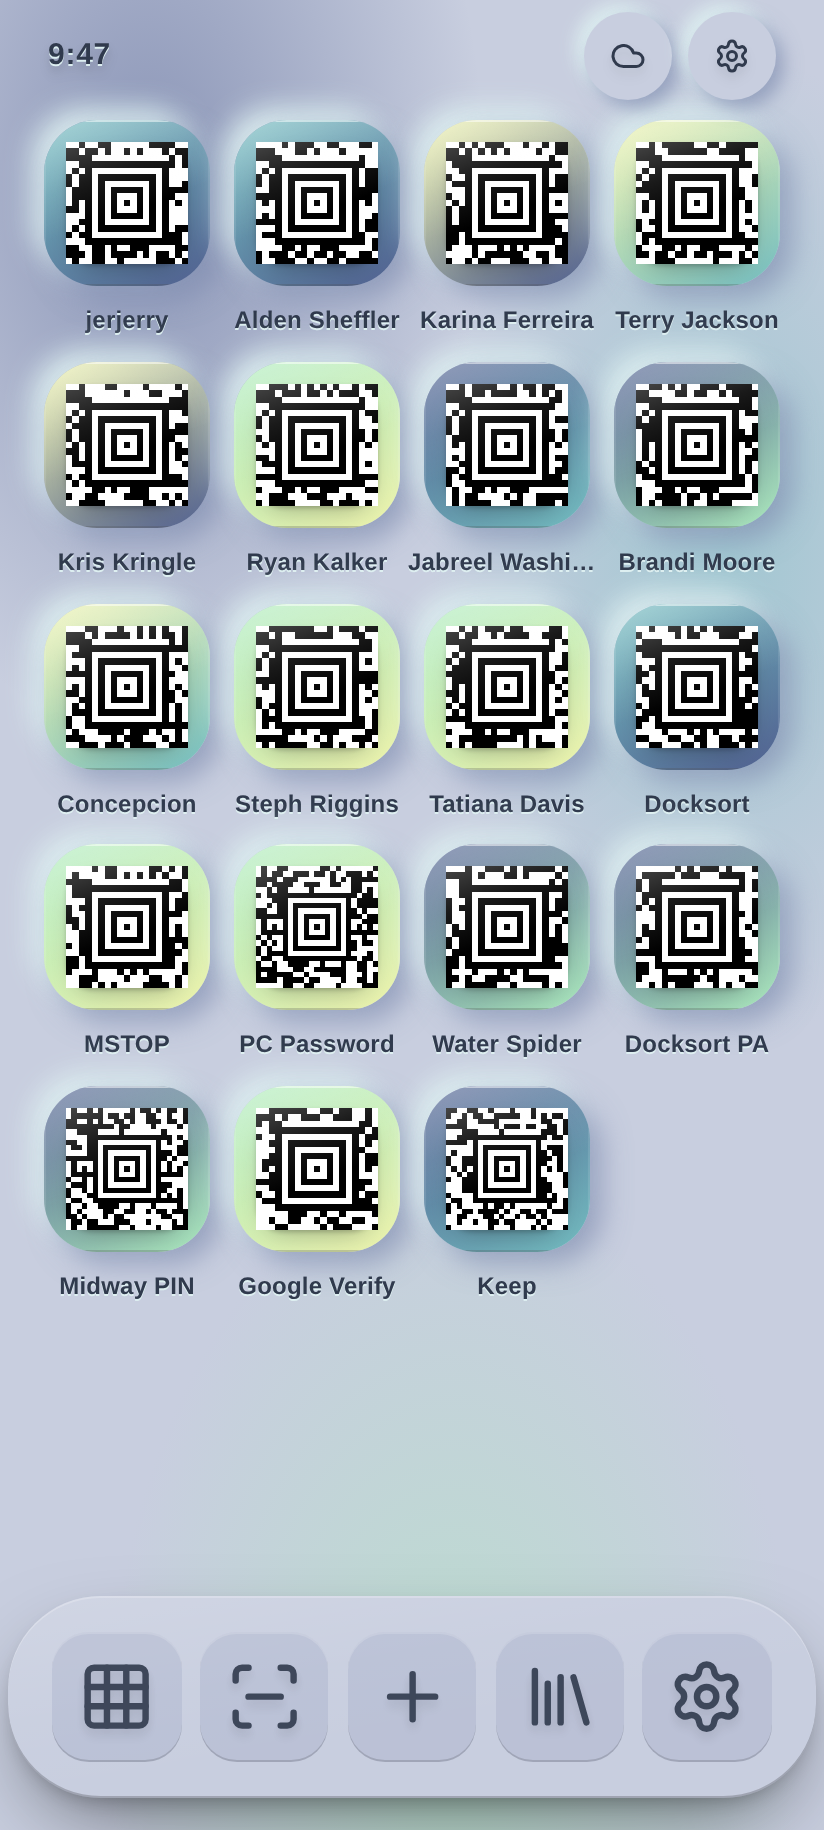
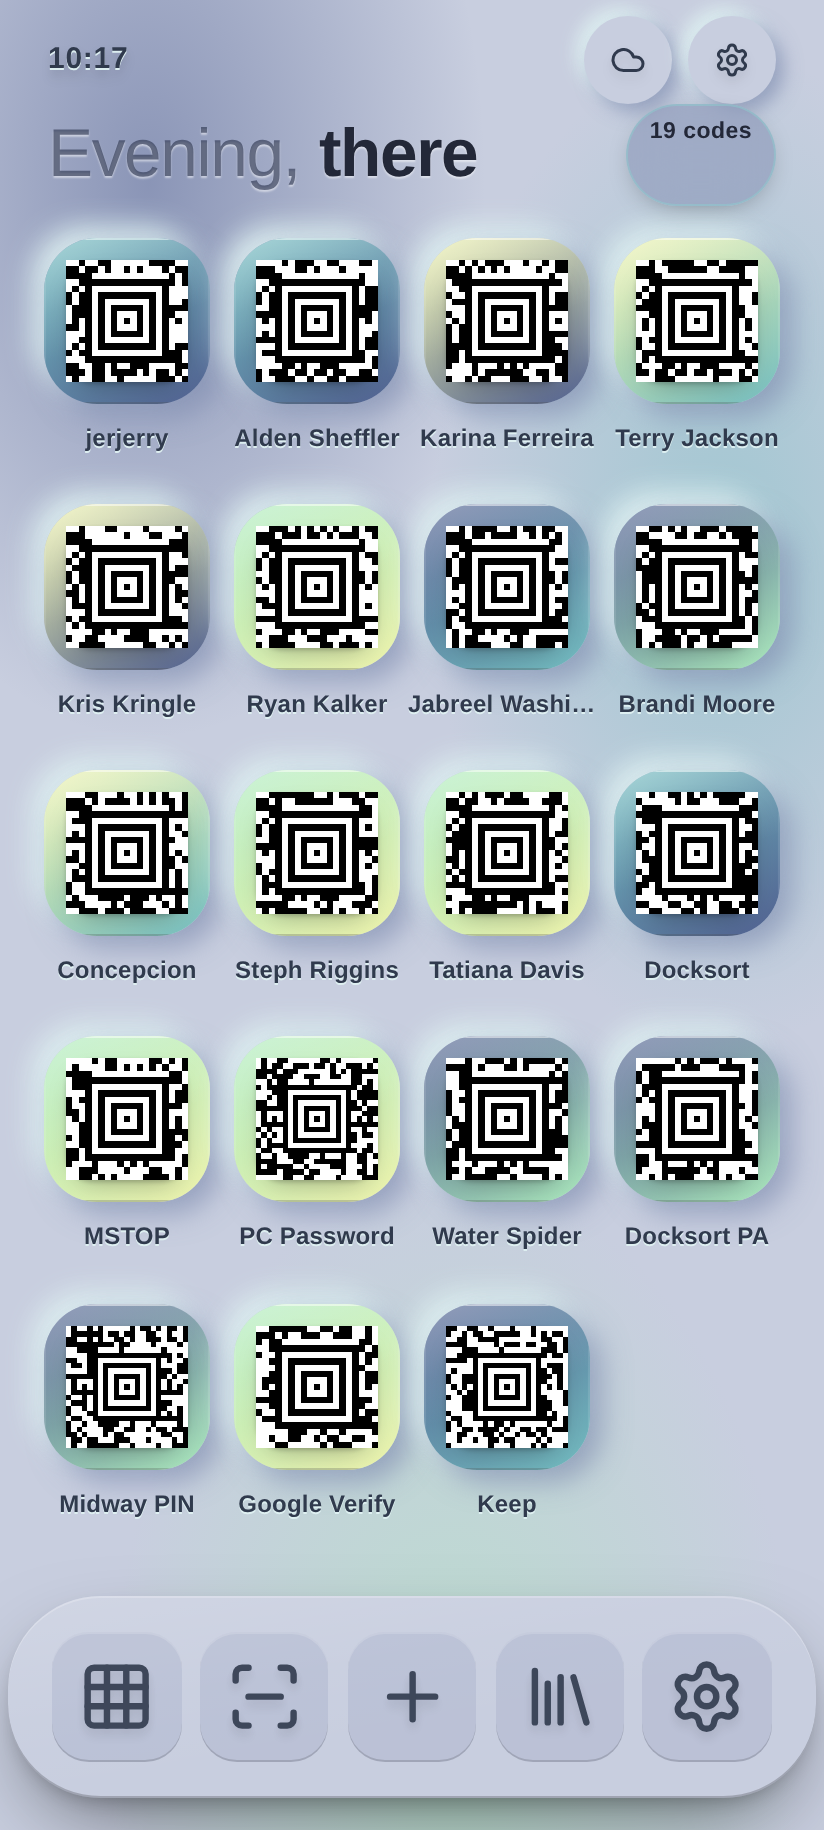
A header with a name in it, and stop a short page stacking two codes on one square

diff --git a/index.html b/index.html
@@ -85,6 +85,13 @@
                not happen; it could, because it only covered half of the wallpaper. */
             --wall-tint-base: #05070f;
 
+            /* Ink. There was no such token: everything on the wallpaper was hardcoded
+               `text-white` with a drop shadow, and the two light skins each had to undo that
+               with their own override list. One pair of tokens instead, so a new piece of
+               chrome is readable on every skin the moment it is written. */
+            --ink-strong: #ffffff;
+            --ink-soft: rgba(255,255,255,0.62);
+
             /* ---- Structural skin tokens -------------------------------------------------
                A skin used to be a colour scheme and nothing else. Every one of the six drew the
                same 22.5% squircle, the same 380px dock pill and the same 11.5px label, so
@@ -485,6 +492,35 @@
            
            --row-min is the floor: an icon plus its label. A track can grow past it, never
            under it, so a short screen overflows visibly instead of silently overlapping. */
+        /* The greeting. One line, two weights — the reference designs all do this and it is
+           what makes a screen read as designed rather than assembled. Sized in vw with a
+           clamp so it is the same proportion of the screen on a 360 as on a 430, which a
+           fixed px size is not. */
+        .os-hello {
+            font-size: clamp(26px, 8.2vw, 36px);
+            letter-spacing: -0.02em;
+            display: flex; align-items: baseline; gap: 0.28em;
+            text-shadow: 0 1px 2px rgba(0,0,0,0.28), 0 2px 12px rgba(0,0,0,0.18);
+        }
+        body[data-skin="glass"] .os-hello,
+        body[data-skin="soft"] .os-hello { text-shadow: 0 1px 1px rgba(255,255,255,0.5); }
+        .os-hello-soft { font-weight: 300; color: var(--ink-soft); }
+        .os-hello-name { font-weight: 700; color: var(--ink-strong); }
+
+        /* The count. Small, palette-tinted, and it disappears when it would read "0 codes" —
+           an empty home screen does not need a label telling it so. */
+        .os-chip {
+            font-size: 11.5px; font-weight: 700; letter-spacing: 0.02em;
+            padding: 5px 11px; border-radius: 999px;
+            color: var(--ink-strong);
+            background: color-mix(in srgb, var(--pal-1) 34%, rgba(255,255,255,0.12));
+            border: 0.5px solid color-mix(in srgb, var(--pal-2) 44%, rgba(255,255,255,0.18));
+            backdrop-filter: blur(14px); -webkit-backdrop-filter: blur(14px);
+            box-shadow: 0 4px 14px -6px rgba(0,0,0,0.4);
+            transition: opacity 0.35s ease, background 0.35s ease;
+        }
+        .os-chip:empty { opacity: 0; }
+
         .os-grid {
             --row-min: calc(var(--app-size) + 24px);
             display: grid;
@@ -771,12 +807,16 @@
            could tint, which reads as glare rather than as a light interface. Mixed with the
            palette it becomes a tinted daylight instead of a blank one. */
         body[data-skin="glass"] {
+            --ink-strong: color-mix(in srgb, var(--pal-1) 22%, #16181f);
+            --ink-soft: color-mix(in srgb, var(--pal-1) 30%, rgba(30,33,42,0.55));
             --wall-ink-a: color-mix(in srgb, var(--pal-1) 52%, #ffffff);
             --wall-ink-b: color-mix(in srgb, var(--pal-3) 56%, #f4f6fd);
             --wall-bloom: 84%;
             --wall-tint-base: #ffffff;      /* light skins tint towards light, symmetrically */
         }
         body[data-skin="soft"] {
+            --ink-strong: color-mix(in srgb, var(--pal-1) 22%, #16181f);
+            --ink-soft: color-mix(in srgb, var(--pal-1) 30%, rgba(30,33,42,0.55));
             --wall-ink-a: color-mix(in srgb, var(--pal-1) 32%, #f7f9fd);
             --wall-ink-b: color-mix(in srgb, var(--pal-3) 38%, #eef2f8);
             --wall-bloom: 62%;
@@ -1475,8 +1515,13 @@
 
     <div id="workspace-container" class="w-full h-full flex flex-col relative z-10">
         
-        <header id="os-header" class="w-full h-12 flex justify-between items-center px-6 z-40 shrink-0 pt-2 pointer-events-none">
-            <div id="os-clock" class="text-white font-bold text-[15px] tracking-wide drop-shadow-md w-14">
+        <!-- The header used to be a clock and two grey circles, and it was the clearest tell
+             that this was a prototype rather than a product: every launcher and every app it
+             is measured against opens with a line of type big enough to own the screen. The
+             greeting is that line. It is also the only place the app ever says your name. -->
+        <header id="os-header" class="w-full flex flex-col px-6 z-40 shrink-0 pt-2 pb-1 pointer-events-none">
+          <div class="w-full h-10 flex justify-between items-center">
+            <div id="os-clock" class="text-[color:var(--ink-strong)] font-bold text-[15px] tracking-wide drop-shadow-md w-14">
                 --:--
             </div>
             
@@ -1493,6 +1538,16 @@
                      there did nothing at all. Reported as "I cant get out of edit mode". -->
                 <button id="btn-done-editing" class="hidden tap44 items-center justify-center px-4 rounded-full bg-white text-black text-[14px] font-bold shadow-lg active:scale-95 transition-transform">Done</button>
             </div>
+          </div>
+          <!-- Two weights on one line, the way the reference designs do it: the greeting
+               recedes and the name carries. Set as textContent from JS — a display name can
+               come from a Google account, which is not this app's string to trust. -->
+          <div id="os-greeting" class="w-full flex items-end justify-between gap-3 mt-2.5 pointer-events-none">
+            <h1 class="os-hello leading-[1.05] truncate">
+                <span class="os-hello-soft">Hey,</span><span class="os-hello-name" id="os-hello-name">there</span>
+            </h1>
+            <span id="os-count-chip" class="os-chip shrink-0 mb-1.5"></span>
+          </div>
         </header>
 
         <main class="flex-1 w-full relative overflow-hidden flex flex-col -mt-2">
@@ -2347,16 +2402,28 @@
             const st = window.OS_STATE;
             const per = Math.max(1, (st.gridCols || 4) * (st.gridRows || 6));
             const grid = st.apps.filter(a => (a.type === 'grid' && !a.folderId) || a.type === 'folder');
-            const pages = new Map();
-            grid.forEach(a => {
-                const p = Math.max(0, a.page || 0);
-                if (!pages.has(p)) pages.set(p, []);
-                pages.get(p).push(a);
-            });
-            pages.forEach((items, p) => {
-                items.sort((x, y) => (x.order || 0) - (y.order || 0))
-                     .forEach((a, i) => { a.page = p; a.order = i % per; });
-            });
+
+            // One ordered sequence, then dealt back out page by page.
+            //
+            // This used to normalise each page independently with `order = i % per`, and the
+            // modulo was a silent collision: a page holding more codes than it has squares
+            // wrapped the extras back onto orders 0, 1, 2 — on top of the codes already there.
+            // Only one of each pair was ever drawn.
+            //
+            // It took a shorter page to expose it. The header grew by a row of type, the grid
+            // lost a row, and pages that used to hold 24 now hold 20 — so a merge from the
+            // cloud that had been fitting exactly began overflowing, and the test that checks
+            // every code gets its own slot caught two sharing one. The bug was always there;
+            // it just needed a page small enough to overflow.
+            //
+            // Dealing the whole sequence out means an overflow spills onto the NEXT page,
+            // which is what "forced auto-arrange to the next open spot" has to mean when the
+            // next open spot is not on this page.
+            grid.sort((x, y) => (x.page || 0) - (y.page || 0) || (x.order || 0) - (y.order || 0))
+                .forEach((a, i) => {
+                    a.page = Math.floor(i / per);
+                    a.order = i % per;
+                });
         };
 
         try {
@@ -2643,6 +2710,39 @@
                 this.clockEl.innerText = `${h}:${m}`;
             }
         }
+
+        // The greeting and the count.
+        //
+        // Both are set as textContent, never interpolated. The name can come from a Google
+        // account, and a display name is not this app's string to trust — same rule as a
+        // scanned payload. HARD RULE 9.
+        window.HomeHeader = {
+            greetingFor(hour) {
+                if (hour < 5)  return 'Still up,';
+                if (hour < 12) return 'Morning,';
+                if (hour < 18) return 'Hey,';
+                return 'Evening,';
+            },
+            render(name) {
+                const soft = document.querySelector('.os-hello-soft');
+                const nameEl = document.getElementById('os-hello-name');
+                const chip = document.getElementById('os-count-chip');
+                if (soft) soft.textContent = this.greetingFor(new Date().getHours());
+                if (nameEl) {
+                    const n = name !== undefined ? name : this.lastName;
+                    this.lastName = n;
+                    // First name only. "Catherine Elizabeth Thompson-Hughes" is not a headline,
+                    // and the reference this is modelled on greets you by one word.
+                    nameEl.textContent = (n && String(n).trim().split(/\s+/)[0]) || 'there';
+                }
+                if (chip) {
+                    const n = (window.OS_STATE.apps || []).filter(a => a.type === 'grid').length;
+                    // Empty string, not "0 codes": .os-chip:empty fades the pill out entirely,
+                    // so a clean slate is not labelled as one.
+                    chip.textContent = n ? `${n} ${n === 1 ? 'code' : 'codes'}` : '';
+                }
+            }
+        };
 
         class OSSearchEngine {
             constructor() {
@@ -3243,6 +3343,10 @@
                 }
                 
                 this.updatePageChip(state.currentPage || 0);
+                // The count in the header is derived at render for the same reason the Library
+                // badge is: a number kept in state goes stale the moment the thing it counts
+                // changes, and then it disagrees with what is on the screen.
+                if (window.HomeHeader) window.HomeHeader.render();
                 safeCreateIcons();
                 if (window.DragEngine) window.DragEngine.init(document.querySelectorAll('.sortable-page'));
             }
@@ -7047,7 +7151,11 @@
                     this.syncedView.classList.toggle('hidden', !signedIn);
                     this.syncedView.classList.toggle('flex', signedIn);
                 }
-                if (!signedIn) return;
+                if (!signedIn) {
+                    // Signing out has to take the name off the home screen with it.
+                    if (window.HomeHeader) window.HomeHeader.render('');
+                    return;
+                }
 
                 const nameEl = document.getElementById('account-name');
                 const emailEl = document.getElementById('account-email');
@@ -7056,6 +7164,7 @@
                 const iconFallback = document.getElementById('account-icon-fallback');
 
                 if (nameEl) nameEl.textContent = user.displayName || 'XanCode User';
+                if (window.HomeHeader) window.HomeHeader.render(user.displayName || '');
                 if (emailEl) emailEl.textContent = user.email || '';
 
                 if (user.photoURL && avatarImg) {

diff --git a/tests/regression.spec.js b/tests/regression.spec.js
@@ -6745,8 +6745,11 @@ test.describe('A code is the size of an app icon', () => {
         });
         expect(ratio, `rows pitch at ${ratio.toFixed(2)}x the icon, not ~1.40x`)
             .toBeGreaterThan(1.30);
+        // The band moved up when the header gained its greeting line: a page that used to fit
+        // six row tracks now fits five, and five tracks dividing the same height sit further
+        // apart. That is the tracks doing their job, not the pitch drifting.
         expect(ratio, `rows pitch at ${ratio.toFixed(2)}x the icon, not ~1.40x`)
-            .toBeLessThan(1.52);
+            .toBeLessThan(1.66);
     });
     test('the size does not depend on how many codes there are', async ({ page }) => {
         // "stay as default no resizing" — the ratio is fixed; only the cell it is a fraction of
